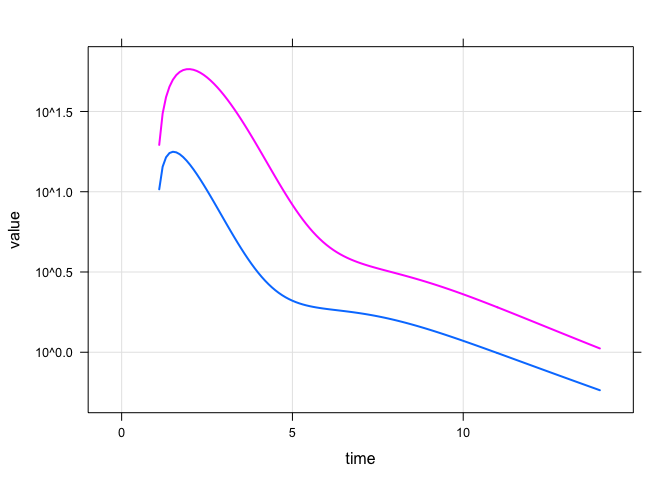
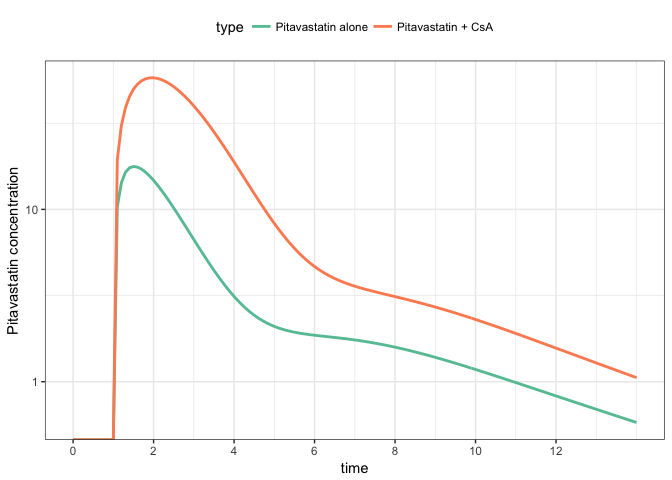
adding cache; re-work mapk figure

diff --git a/docs/oatp_ddi_optimization.md b/docs/oatp_ddi_optimization.md
@@ -27,12 +27,24 @@ library(tidyverse)
 
 ``` r
 library(mrgsolve)
+library(PKPDmisc)
+```
+
+    ## Warning: package 'PKPDmisc' was built under R version 3.4.3
+
+``` r
 library(minqa)
 library(RcppDE)
 library(GenSA)
 library(hydroPSO)
+
 source("functions.R")
+
 set.seed(10101)
+
+theme_set(theme_bw())
+theme_update(legend.position = "top")
+scale_colour_discrete <- function(...) scale_color_brewer(palette="Set2")
 ```
 
 Reference
@@ -67,8 +79,7 @@ data <- read_csv(data.file) %>%
 ggplot(data=data,aes(time,DV)) + 
   geom_point(col="firebrick") + 
   facet_wrap(~typef) + 
-  scale_y_continuous(trans="log", limits=c(0.1,300), breaks=logbr()) + 
-  theme_bw()
+  scale_y_continuous(trans="log", limits=c(0.1,300), breaks=logbr()) 
 ```
 
 ![](img/oatp_ddi_optimization-unnamed-chunk-4-1.png)
@@ -109,15 +120,36 @@ PBPK model: pitavastatin / CsA DDI
 -   We're only interested in `CP`, the pitavastatin concentration
 
 ``` r
-mod <- mread("yoshikado","models") %>% 
-  update(end=14, delta=0.1) %>% Req(CP) %>% obsonly()
+mod <- mread_cache("yoshikado","models") %>% 
+  update(end=14, delta=0.1) %>% 
+  Req(CP) %>% 
+  obsonly()
 
-mod %>% 
+sims <- 
+  mod %>% 
   mrgsim(data=dose,obsaug=TRUE) %>% 
-  plot(CP~.,scales=list(y=list(log=TRUE)))
+  mutate(type = typef(ID))
+
+ggplot(sims, aes(time,CP,col=type)) + 
+  geom_line(lwd = 1) + 
+  scale_x_continuous(breaks = seq(0,12,2)) + 
+  scale_y_continuous(trans = "log10", name = "Pitavastatin concentration")
 ```
 
 ![](img/oatp_ddi_optimization-unnamed-chunk-6-1.png)
+
+``` r
+sims %>% 
+  group_by(type) %>% 
+  summarise(auc = auc_partial(time,CP)) %>% 
+  mutate(fold_increase = auc /first(auc))
+```
+
+    . # A tibble: 2 x 3
+    .   type                 auc fold_increase
+    .   <fct>              <dbl>         <dbl>
+    . 1 Pitavastatin alone  44.1          1.00
+    . 2 Pitavastatin + CsA 161.           3.65
 
 Objective function
 ==================
@@ -232,7 +264,7 @@ ggplot(data=df_pred) +
   theme_bw() + theme(legend.position="top") 
 ```
 
-![](img/oatp_ddi_optimization-unnamed-chunk-11-1.png)
+![](img/oatp_ddi_optimization-unnamed-chunk-12-1.png)
 
 ### The final objective function value and estimates
 
@@ -398,7 +430,7 @@ ggplot(data=hxm) +
   facet_wrap(~variable, ncol=2, scales="free_y") + theme_bw()
 ```
 
-![](img/oatp_ddi_optimization-unnamed-chunk-16-1.png)
+![](img/oatp_ddi_optimization-unnamed-chunk-17-1.png)
 
 `GenSA`: simulated annealing
 ----------------------------

diff --git a/docs/rifampin_midazolam_ddi.md b/docs/rifampin_midazolam_ddi.md
@@ -1,15 +1,15 @@
 Rifampicin PBPK Model to Predict Complex DDIs
 ================
+Metrum Research Group, LLC
 
 -   [Reference](#reference)
 -   [Rifampin PBPK](#rifampin-pbpk)
     -   [Single rifampicin dose](#single-rifampicin-dose)
     -   [Multiple rifampicin doses](#multiple-rifampicin-doses)
 -   [PBPK model for rifampicin / midazolam DDI](#pbpk-model-for-rifampicin-midazolam-ddi)
-    -   [Dose-response for Mid/Rif DDI](#dose-response-for-midrif-ddi)
+    -   [Dose-response for midazolam/rifampin DDI](#dose-response-for-midazolamrifampin-ddi)
 
 ``` r
-library(tidyverse)
 library(mrgsolve)
 library(PKPDmisc)
 theme_set(theme_bw())
@@ -180,18 +180,17 @@ Midazolam exposure is reduced after rifampicin 75 mg daily x 7d
 sims %>% 
   group_by(ID) %>% 
   summarise(AUC = auc_partial(time,Cmidazolam)) %>%
-  ungroup() %>%
-  mutate(percent_reduction = 100*(1-last(AUC)/first(AUC)))
+  mutate(percent_reduction = 100*(1-AUC/first(AUC))) %>%
+  knitr::kable()
 ```
 
-    . # A tibble: 2 x 3
-    .   ID                    AUC percent_reduction
-    .   <fct>               <dbl>             <dbl>
-    . 1 Midazolam           24.7               72.3
-    . 2 Midazolam after Rif  6.84              72.3
+| ID                  |        AUC|  percent\_reduction|
+|:--------------------|----------:|-------------------:|
+| Midazolam           |  24.703773|              0.0000|
+| Midazolam after Rif |   6.839165|             72.3153|
 
-Dose-response for Mid/Rif DDI
------------------------------
+Dose-response for midazolam/rifampin DDI
+----------------------------------------
 
 Make a function to wrap up the workflow for a single dose
 
@@ -243,9 +242,9 @@ summ
 ggplot(summ, aes(rif,pAUC)) + 
   geom_line(lwd = 1) + 
   scale_y_continuous(breaks = seq(0,100,10), limits = c(0,100),
-                     name = "%Reduction in midazolam AUC after 7d Tx") + 
+                     name = "%Reduction in midazolam AUC after Rif x 7d") + 
   scale_x_continuous(name = "Rifampicin dose (mg)", 
-                     breaks = seq(0,600,100))
+                     breaks = seq(0,600,100)) + theme_bw()
 ```
 
 ![](img/rifampin_midazolam_ddi-unnamed-chunk-15-1.png)

diff --git a/docs/mapk_inhibitors_in_colorectal_cancer.md b/docs/mapk_inhibitors_in_colorectal_cancer.md
@@ -318,12 +318,14 @@ Get ready to plot
 ``` r
 sms <- select(sims, label, out) %>% unnest()
 
-sms <- mutate(sms, labelf = fct_inorder(label))
+sms <- mutate(sms, 
+              labelf = fct_inorder(label), 
+              gdc = factor(grepl("GDC", label)))
 
 head(sms)
 ```
 
-    . # A tibble: 6 x 27
+    . # A tibble: 6 x 28
     .   label           ID  time   TD1 CELLS   FB1   FB2   FB3   FB4 RTK1i_blood
     .   <chr>        <dbl> <dbl> <dbl> <dbl> <dbl> <dbl> <dbl> <dbl>       <dbl>
     . 1 No Treatment    1.   56. 0.998 0.872 0.822 0.822 0.822 0.714          0.
@@ -332,21 +334,23 @@ head(sms)
     . 4 No Treatment    4.   56. 0.995 1.51  0.583 0.583 0.583 0.644          0.
     . 5 No Treatment    5.   56. 0.999 1.43  0.951 0.951 0.951 0.664          0.
     . 6 No Treatment    6.   56. 0.999 1.06  0.940 0.940 0.940 0.731          0.
-    . # ... with 17 more variables: RAFi_gut <dbl>, RAFi_blood <dbl>,
+    . # ... with 18 more variables: RAFi_gut <dbl>, RAFi_blood <dbl>,
     . #   MEKi_gut <dbl>, MEKi_blood <dbl>, ERKi_gut <dbl>, ERKi_blood <dbl>,
     . #   AKTi_gut <dbl>, AKTi_blood <dbl>, MEKi_V3 <dbl>, RTK1i_gut <dbl>,
     . #   ERKi <dbl>, ERKi_C <dbl>, RAFi <dbl>, MEKi <dbl>, TUMOR <dbl>,
-    . #   GDC <dbl>, labelf <fct>
+    . #   GDC <dbl>, labelf <fct>, gdc <fct>
 
 ``` r
 p1 <- 
   ggplot(data=sms) + 
   geom_point(aes(x=labelf, y=TUMOR),position=position_jitter(width=0.15),col="grey") +
+  geom_hline(yintercept=0.7,col="black", lty=1,lwd=0.7)  +
   scale_y_continuous(limits=c(0,2.5),name="Tumor size",breaks=c(0,0.5,1,1.5,2,2.5,3)) +
   scale_x_discrete(name="") + 
-  geom_hline(yintercept=0.7,col="firebrick", lty=1,lwd=1)  +
-  geom_boxplot(aes(x=labelf,y=TUMOR),fill="darkslateblue",col="darkslateblue",alpha=0.2) +
-  theme_plain() + rotx(30)
+  geom_boxplot(aes(x=labelf,y=TUMOR,col=gdc),fill="darkslateblue",alpha=0.2) +
+  scale_color_manual(values = c("darkslateblue", "firebrick"), guide = FALSE) + 
+  theme_plain() + rotx(30) + 
+  ggtitle("Note: GDC-0944 +/- cobimetinib")
 p1
 ```
 

diff --git a/docs/global_sensitivity_analysis.md b/docs/global_sensitivity_analysis.md
@@ -298,6 +298,7 @@ devtools::session_info()
     .  broom           0.4.3       2017-11-20 CRAN (R 3.4.2)                  
     .  cellranger      1.1.0       2016-07-27 CRAN (R 3.4.0)                  
     .  cli             1.0.0       2017-11-05 cran (@1.0.0)                   
+    .  codetools       0.2-15      2016-10-05 CRAN (R 3.4.2)                  
     .  colorspace      1.3-2       2016-12-14 CRAN (R 3.4.0)                  
     .  compiler        3.4.2       2017-10-04 local                           
     .  crayon          1.3.4       2017-09-16 CRAN (R 3.4.1)                  
